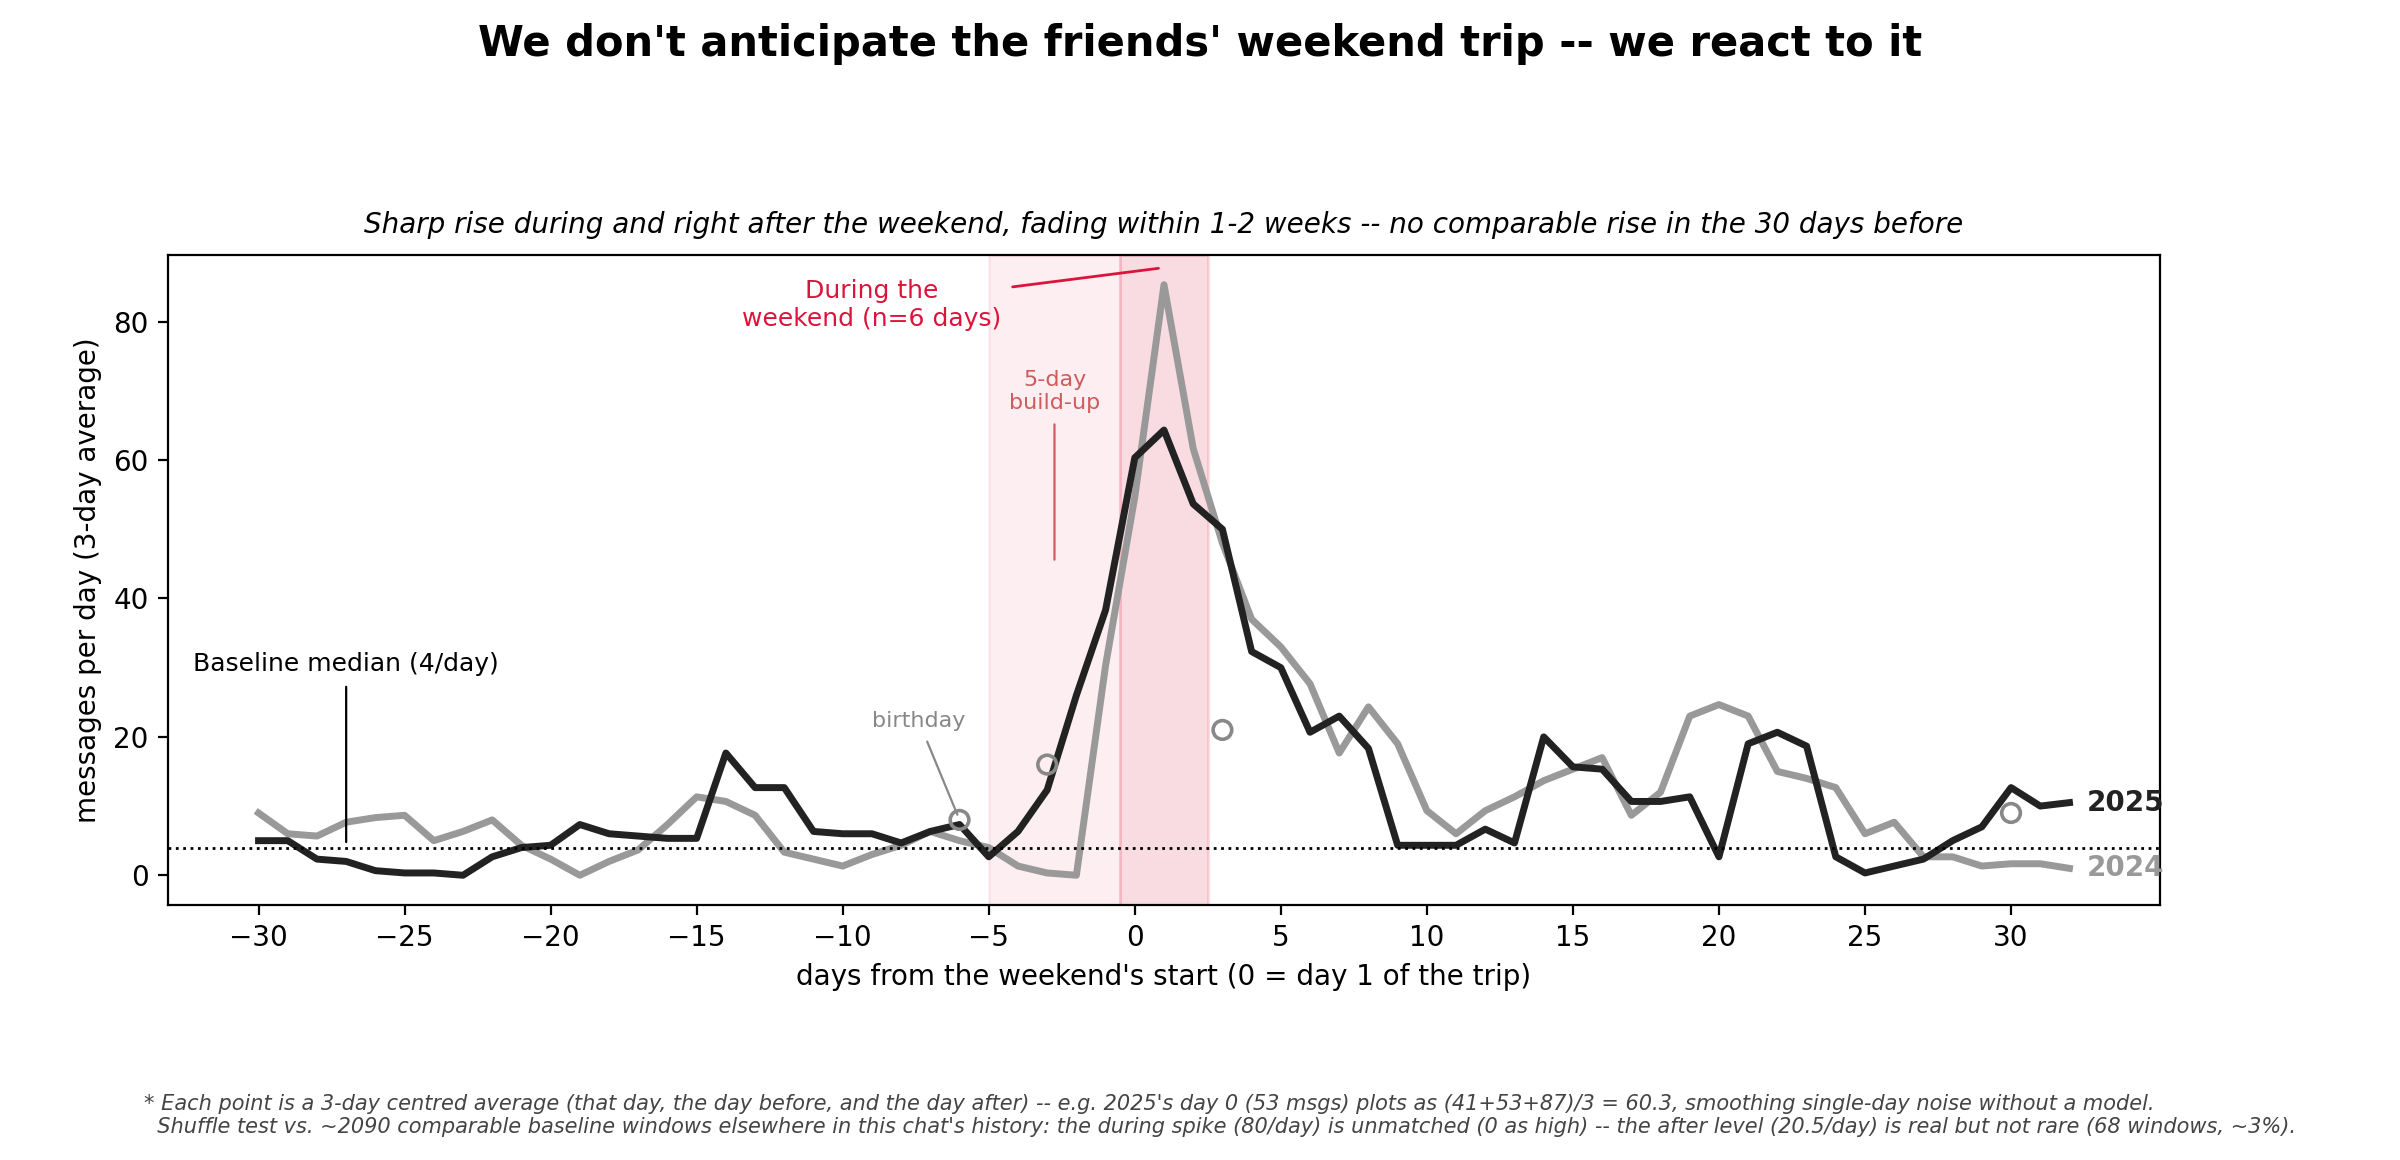
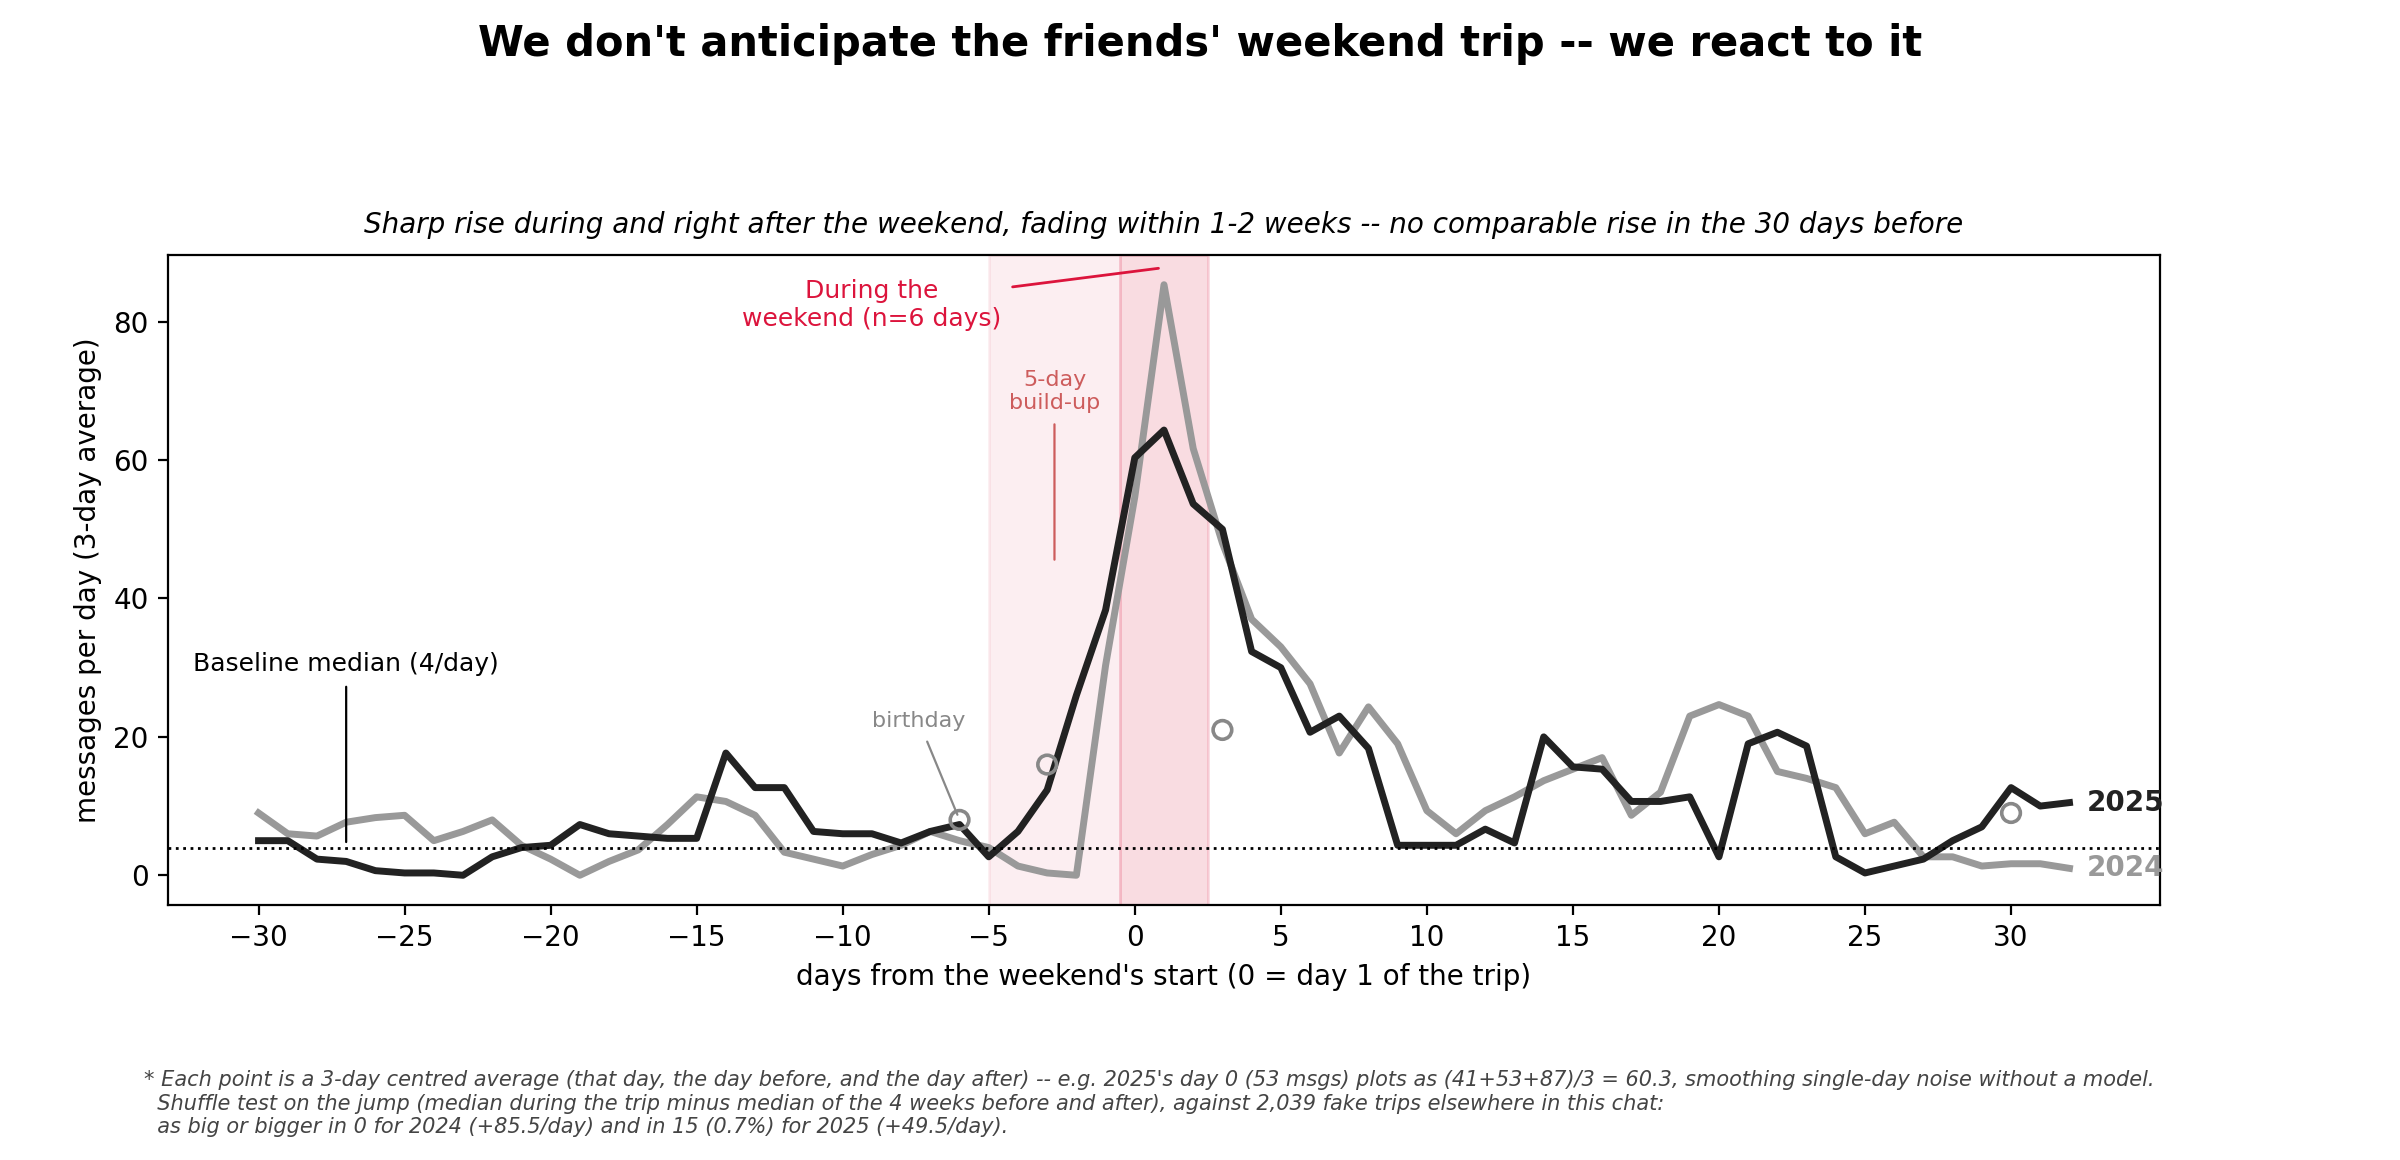
docs: friends' weekend shuffle test on the jump over the local baseline
Teacher feedback point 3: test the trip's jump over the 4 weeks around it
against every possible fake trip, instead of the level. The final graph's
footnote now takes its numbers from the test.

Changed region(s): [[0.0625, 0.9, 0.9375, 0.9931]]

diff --git a/analysis-log.md b/analysis-log.md
@@ -2242,6 +2242,29 @@ chart, logged to pick back up later:
    weekends, 10,000 draws vs. ~2,000 possible positions, pooled vs.
    per-year) are listed in the feedback file.
 
+### Point 3 done: shuffle test on the jump (2026-11-12)
+
+- **Choices, fixed before running (student):** jump = median msgs/day during
+  the 3 trip days − median of 28 days before + 28 days after (difference,
+  median, 4 weeks); 2024 and 2025 separately. Every possible start day as a
+  fake (2,039 positions), fakes whose window contains a real trip day left
+  out. Extra check named before the run: Friday starts only (both trips
+  start on a Friday; 291 positions).
+- **Result** (last cells of `05-friends-weekend-activity.ipynb`):
+  | Trip | Real jump | Fakes ≥ real, all starts | Friday starts |
+  |---|---|---|---|
+  | 2024 | +85.5/day | 0/2039 | 0/291 |
+  | 2025 | +49.5/day | 15/2039 (0.7%) | 3/291 (1.0%) |
+- Fake jumps: median 0, 95th percentile 21, max 63. Largest fakes:
+  2022-08-19, 2022-11-20/21 (start of the 2022 World Cup), 2023-11-21/22
+  (Dutch general election).
+- **Caveat for the text:** neighbouring start days share most of their
+  window, so the 15 fakes for 2025 are a handful of separate episodes, not
+  15 independent ones. The test says the jump is rare for this chat; it does
+  not say the trip caused it (n = 2 trips, and "people text more when they
+  are together" was named up front).
+- Replaces the 0/2091 and 68/2087 level results in the page text.
+
 ---
 
 # Analysis 8 — hour-of-day distribution, lockdown vs. after
